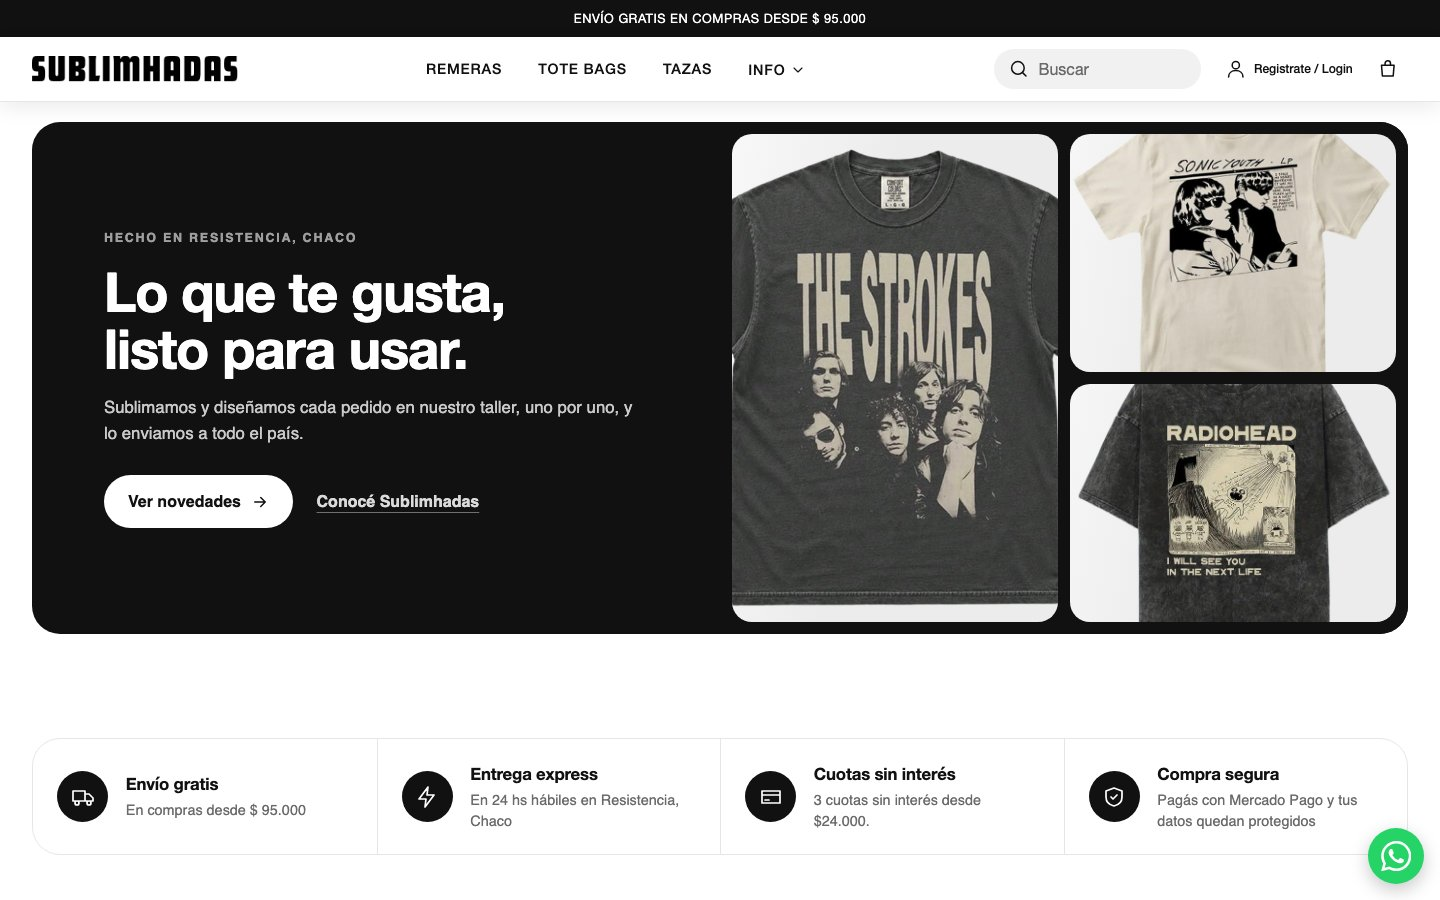
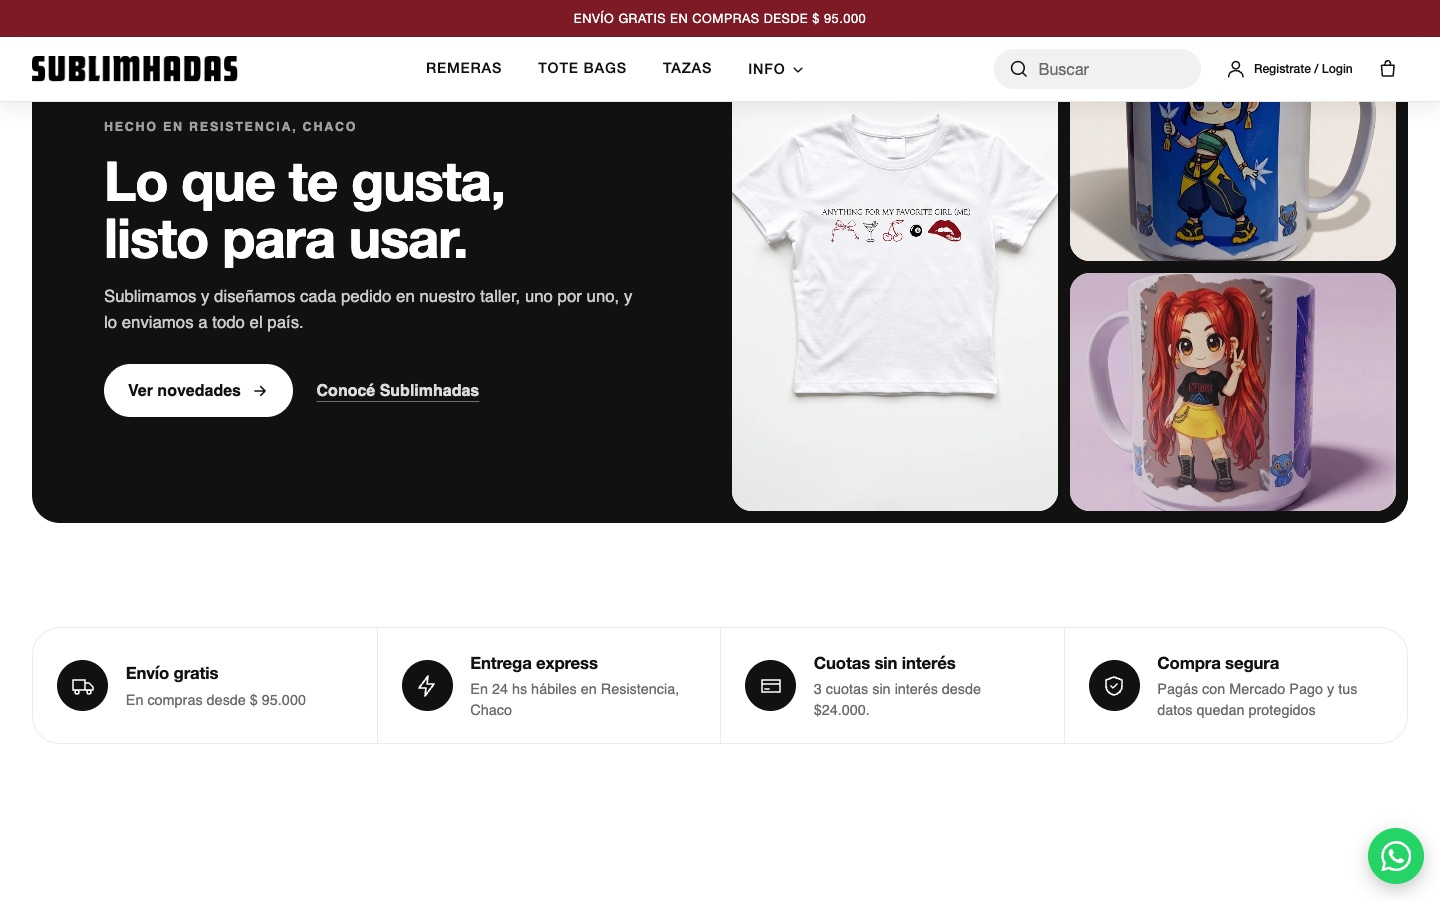
Actualiza capturas y descripción con el diseño actual de la tienda
Nuevas capturas de escritorio y móvil (portada Verano 2027, colecciones, favoritos, beneficios y sección editorial) y README al día.

diff --git a/README.md b/README.md
@@ -7,11 +7,13 @@ Tienda online de **remeras, tote bags y tazas personalizadas**, hecha en Resiste
 ![Sublimhadas en escritorio](images/escritorio-inicio.jpg)
 
 ## Qué incluye
+- Portada con campaña de temporada (Verano 2027, estampado DTF), productos favoritos y colecciones de remeras, tote bags y tazas.
 - Catálogo por categorías y buscador.
 - Cuenta de usuario (registro e inicio de sesión) y carrito.
 - Pago con **Mercado Pago**, envíos y cuotas sin interés.
-- Contenido para SEO: guías y artículos de blog.
-- Contacto directo por WhatsApp.
+- Beneficios a la vista: envío gratis desde $ 95.000, entrega express en Resistencia y cuotas sin interés.
+- Contenido para SEO: guías y artículos de blog (DTF, cuidado de prendas, regalos personalizados).
+- Contacto directo por WhatsApp y redes sociales (Instagram, Facebook, TikTok).
 
 <table>
   <tr>
@@ -21,6 +23,9 @@ Tienda online de **remeras, tote bags y tazas personalizadas**, hecha en Resiste
   <tr>
     <td><img src="images/escritorio-colecciones.jpg" alt="Colecciones"></td>
     <td align="center"><img src="images/movil-inicio.jpg" alt="Versión móvil" width="220"> <img src="images/movil-propuesta-y-beneficios.jpg" alt="Versión móvil, beneficios" width="220"></td>
+  </tr>
+  <tr>
+    <td colspan="2"><img src="images/escritorio-editorial.jpg" alt="Sección editorial con remeras, tazas y tote bags"></td>
   </tr>
 </table>
 
